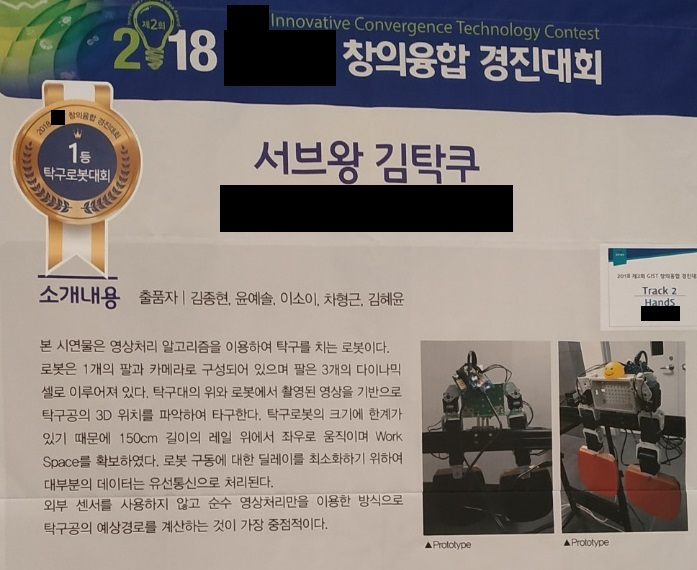
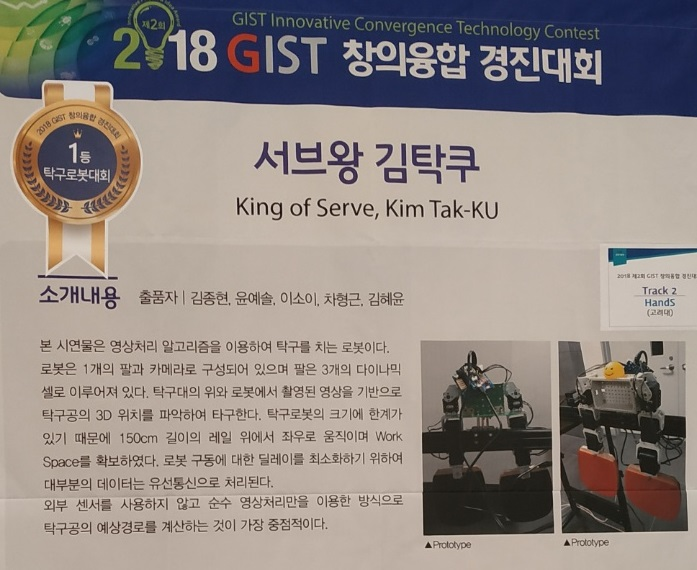
Update files

diff --git a/README.md b/README.md
@@ -10,4 +10,4 @@
 <img width= "50%" src="https://github.com/hgcha/PingPong_HandS/blob/master/photos/pingpong_2.jpg"/>
 
 # Awards
-OO대학교 창의융합경진대회 탁구 로봇 제작부문 최우수상
+2018년 제2회 GIST 창의융합경진대회 탁구 로봇 제작부문 국립광주과학관장상(최우수)
